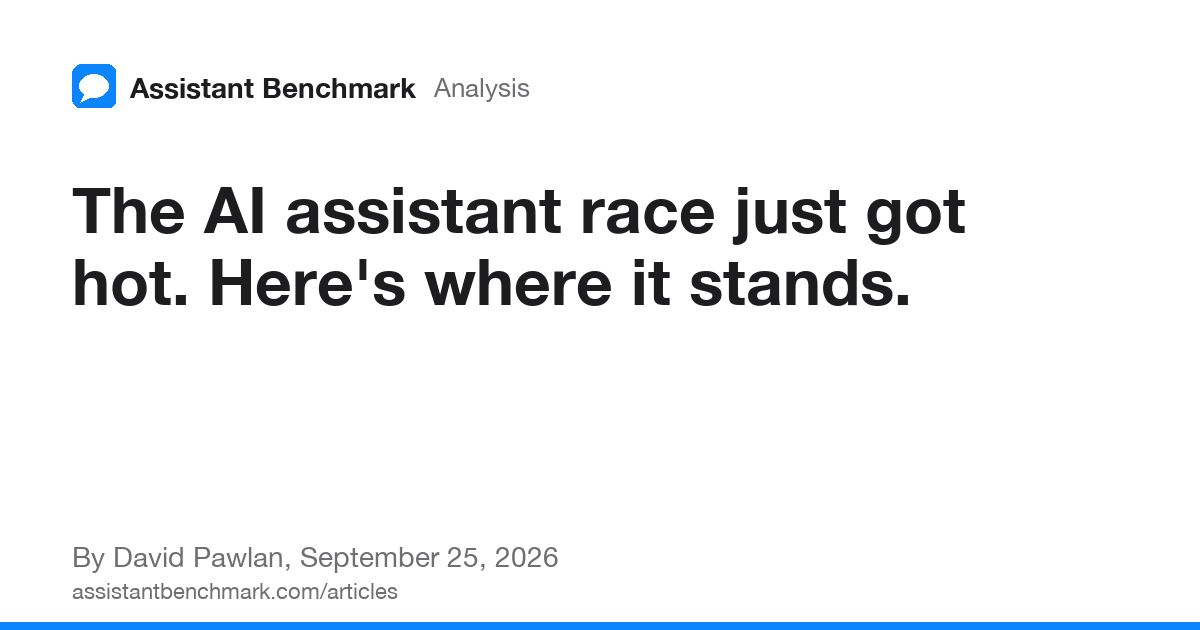
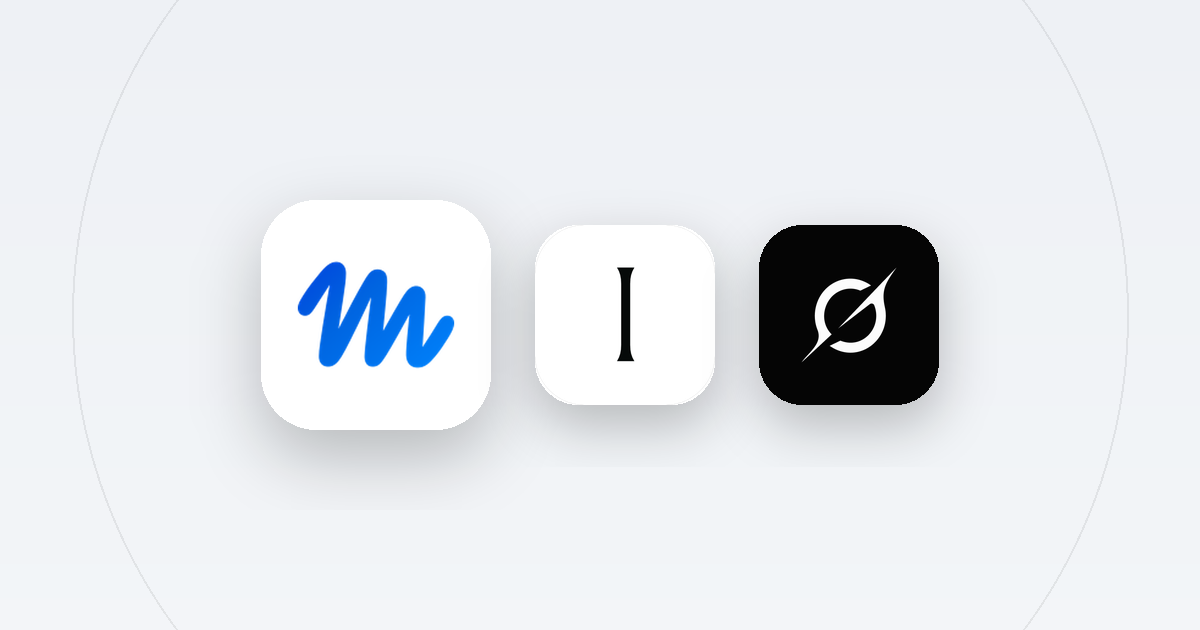
Article share cards mirror the page hero
Claude-Session: https://claude.ai/code/session_016rbtyKTL1GDstoxYyKoNrR

Changed region(s): [[0.0617, 0.2714, 0.8017, 0.7841], [0.0, 0.8444, 1.0, 1.0], [0.0617, 0.0905, 0.4625, 0.181]]

diff --git a/scripts/og-article.py b/scripts/og-article.py
@@ -1,65 +1,71 @@
-"""Render a 1200x630 share card per article into public/og/articles/<slug>.png: brand line, wrapped headline, byline."""
-import os, re, sys, textwrap
-from PIL import Image, ImageDraw, ImageFont
+"""Render a 1200x630 share card per article into public/og/articles/<slug>.png.
+The card is the article's hero: a real `hero:` image if the frontmatter names one, otherwise the
+same composition the page draws, the assistants named in `agents:` as logo tiles on a tint."""
+import os, re, sys
+from PIL import Image, ImageDraw, ImageFilter
 
 ROOT = os.path.dirname(os.path.dirname(os.path.abspath(__file__)))
 W, H = 1200, 630
-BLUE = (10, 132, 255); TEXT = (29, 29, 31); SEC = (110, 110, 115); BG = (255, 255, 255)
-
-def font(weight, size):
-    cands = {
-        'Bold': [('/System/Library/Fonts/HelveticaNeue.ttc', 1), ('/System/Library/Fonts/Supplemental/Arial Bold.ttf', 0)],
-        'Regular': [('/System/Library/Fonts/HelveticaNeue.ttc', 0), ('/System/Library/Fonts/Supplemental/Arial.ttf', 0)],
-    }[weight]
-    for path, idx in cands:
-        if os.path.exists(path):
-            try: return ImageFont.truetype(path, size, index=idx)
-            except Exception: pass
-    return ImageFont.load_default()
+DEFAULT_TINT = (238, 241, 245)
 
 def frontmatter(path):
     raw = open(path, encoding='utf8').read()
     m = re.match(r'^---\n([\s\S]*?)\n---', raw); meta = {}
     if m:
         for line in m.group(1).split('\n'):
-            if ':' in line: k, v = line.split(':', 1); meta[k.strip()] = v.strip()
+            if ':' in line: k, v = line.split(':', 1); meta[k.strip()] = v.strip().strip('"')
     return meta
 
-def fmt_date(iso):
-    import datetime
-    try: return datetime.date.fromisoformat(iso).strftime('%B %-d, %Y')
-    except Exception: return iso
+def hex_rgb(s):
+    s = s.lstrip('#'); return tuple(int(s[i:i+2], 16) for i in (0, 2, 4)) if len(s) == 6 else DEFAULT_TINT
 
-def bubble(size):
-    im = Image.new('RGBA', (size, size), (0, 0, 0, 0)); d = ImageDraw.Draw(im)
-    d.rounded_rectangle((0, 0, size, size), radius=int(size * 0.24), fill=BLUE)
-    cx, cy = size * 0.5, size * 0.5; rx, ry = size * 0.33, size * 0.27
-    d.ellipse((cx - rx, cy - ry, cx + rx, cy + ry), fill=BG)
-    d.polygon([(cx - rx * 0.6, cy + ry * 0.55), (cx - rx * 0.95, cy + ry * 1.35), (cx - rx * 0.1, cy + ry * 0.9)], fill=BG)
-    return im
+def tile(slug, size):
+    """Logo on a rounded white tile with a soft shadow, like .row-icon on the page."""
+    path = os.path.join(ROOT, 'public', 'logos', f'{slug}.png')
+    face = Image.new('RGBA', (size, size), (255, 255, 255, 255))
+    if os.path.exists(path):
+        logo = Image.open(path).convert('RGBA').resize((size, size), Image.LANCZOS); face.alpha_composite(logo)
+    mask = Image.new('L', (size, size), 0); ImageDraw.Draw(mask).rounded_rectangle((0, 0, size - 1, size - 1), radius=int(size * 0.24), fill=255)
+    face.putalpha(mask)
+    pad = int(size * 0.35); canvas = Image.new('RGBA', (size + pad * 2, size + pad * 2), (0, 0, 0, 0))
+    shadow = Image.new('RGBA', canvas.size, (0, 0, 0, 0))
+    ImageDraw.Draw(shadow).rounded_rectangle((pad, pad + int(size * 0.12), pad + size, pad + size + int(size * 0.12)), radius=int(size * 0.24), fill=(0, 0, 0, 60))
+    shadow = shadow.filter(ImageFilter.GaussianBlur(int(size * 0.14)))
+    canvas.alpha_composite(shadow); canvas.alpha_composite(face, (pad, pad))
+    return canvas
+
+def cover_fit(img):
+    r = max(W / img.width, H / img.height); img = img.resize((int(img.width * r), int(img.height * r)), Image.LANCZOS)
+    x, y = (img.width - W) // 2, (img.height - H) // 2
+    return img.crop((x, y, x + W, y + H))
 
 def render(md_path):
     meta = frontmatter(md_path); slug = os.path.basename(md_path)[:-3]
-    im = Image.new('RGB', (W, H), BG); d = ImageDraw.Draw(im)
-    mark = bubble(44); im.paste(mark, (72, 64), mark)
-    d.text((130, 70), 'Assistant Benchmark', font=font('Bold', 28), fill=TEXT)
-    kind = meta.get('kind', 'Article')
-    d.text((130 + d.textlength('Assistant Benchmark', font=font('Bold', 28)) + 18, 72), kind, font=font('Regular', 26), fill=SEC)
-    title = meta.get('title', slug); size = 64
-    while size > 40:
-        tf = font('Bold', size); lines = []
-        for para in textwrap.wrap(title, width=max(10, int(1056 / (size * 0.5)))):
-            lines.append(para)
-        if len(lines) <= 3: break
-        size -= 4
-    tf = font('Bold', size); y = 170; lh = int(size * 1.14)
-    for line in lines: d.text((72, y), line, font=tf, fill=TEXT); y += lh
-    by = f"By {meta.get('author', '')}, {fmt_date(meta.get('date', ''))}"
-    d.text((72, H - 90), by, font=font('Regular', 28), fill=SEC)
-    d.text((72, H - 52), 'assistantbenchmark.com/articles', font=font('Regular', 22), fill=SEC)
-    d.rectangle((0, H - 8, W, H), fill=BLUE)
     out = os.path.join(ROOT, 'public', 'og', 'articles', f'{slug}.png'); os.makedirs(os.path.dirname(out), exist_ok=True)
-    im.save(out, optimize=True); print(out)
+    hero = meta.get('hero')
+    if hero:
+        p = os.path.join(ROOT, 'public', hero.lstrip('/'))
+        if os.path.exists(p):
+            cover_fit(Image.open(p).convert('RGB')).save(out, optimize=True); print(out); return
+    tint = hex_rgb(meta.get('cover_tint', '')) if meta.get('cover_tint') else DEFAULT_TINT
+    im = Image.new('RGBA', (W, H), tint + (255,))
+    # soft gradient to white toward the bottom right, like the page
+    grad = Image.linear_gradient('L').resize((W, H)); white = Image.new('RGBA', (W, H), (255, 255, 255, 255))
+    im = Image.composite(white, im, grad.point(lambda v: int(v * 0.28)))
+    cx, cy = W // 2, H // 2
+    rings = Image.new('RGBA', (W, H), (0, 0, 0, 0)); rd = ImageDraw.Draw(rings)
+    for rw, alpha in ((int(W * 0.44), 18), (int(W * 0.66), 12)):
+        rd.ellipse((cx - rw, cy - rw, cx + rw, cy + rw), outline=(0, 0, 0, alpha), width=2)
+    im.alpha_composite(rings)
+    agents = [a.strip() for a in meta.get('agents', '').split(',') if a.strip()]
+    if agents:
+        lead, small = 230, 180; gap = 44
+        sizes = [lead] + [small] * (len(agents) - 1)
+        total = sum(sizes) + gap * (len(agents) - 1); x = cx - total // 2
+        for s, size in zip(agents, sizes):
+            t = tile(s, size); pad = (t.width - size) // 2
+            im.alpha_composite(t, (x - pad, cy - size // 2 - pad)); x += size + gap
+    im.convert('RGB').save(out, optimize=True); print(out)
 
 if __name__ == '__main__':
     paths = sys.argv[1:] or [os.path.join(ROOT, 'data', 'articles', f) for f in os.listdir(os.path.join(ROOT, 'data', 'articles')) if f.endswith('.md')]
